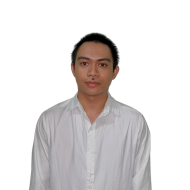
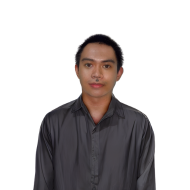
Answered FAQs and changed Randolph's picture.

diff --git a/templates/FAQs.html b/templates/FAQs.html
@@ -28,21 +28,30 @@
             <label for="first">How does the project work? <span>+</span></label>
             <input type="radio" name="accordion" id="first" checked>
             <div class="content">
-                <p>..</p>
+                <p>
+                    The project is designed to identify the language of a given sentence, perform part-of-speech (POS) tagging, and detect profanity. 
+                    It first loads or trains a language identification model, which predicts the language based on the input sentence. 
+                    Once the language is identified, the appropriate POS tagger processes the sentence to assign grammatical tags to each word. 
+                    The project also includes a profanity detection component that uses a trained Support Vector Machine (SVM) model to classify sentences as profane or not, 
+                    and utilizing n-grams derived from the POS tags to identify patterns associated with profanity. If a sentence is detected as profane, it is censored accordingly. 
+                    Finally, the results, including the detected language, POS tags, and any censored sentences, are displayed.
+                </p>
             </div>
         </li>
         <li>
             <label for="second">What algorithms were used? <span>+</span></label>
             <input type="radio" name="accordion" id="second">
             <div class="content">
-                <p>..</p>
+                <p> <b>Naive Bayes</b> for the Language Identification. </p>
+                <p> <b>Stanford POS Tagger</b> for the Part-of-Speech Tagging. </p>
+                <p> <b>Support Vector Machine and N-gram</b> for the Profanity Detection and Pattern Generation. </p>
             </div>
         </li>
         <li>
             <label for="third">How to contact the creators? <span>+</span></label>
             <input type="radio" name="accordion" id="third">
             <div class="content">
-<p>Have any questions? Send an email to (<a href="mailto:takluban24@gmail.com">takluban24@gmail.com</a>) and we will get back to you as soon as possible.<br></p>
+                <p>Have any questions? Send an email to (<a href="mailto:takluban24@gmail.com">takluban24@gmail.com</a>) and we will get back to you as soon as possible.<br></p>
                 <p>Or you may directly contact the team:<br>
                 <b>Annalyn P. Belen</b> <br> ✉ <a href="mailto:annalynpelaez26@gmail.com">annalynpelaez26@gmail.com</a>
                 <br><b>Jeo C. Abarre</b> <br> ✉ <a href="mailto:jeoabarre.07@gmail.com">jeoabarre.07@gmail.com</a>

diff --git a/static/style/FAQs.css b/static/style/FAQs.css
@@ -60,6 +60,10 @@ body {
     min-height: 100vh;
 }
 
+p {
+    text-align: justify;
+}
+
 h2 {
     color: black;
     text-align: center;
